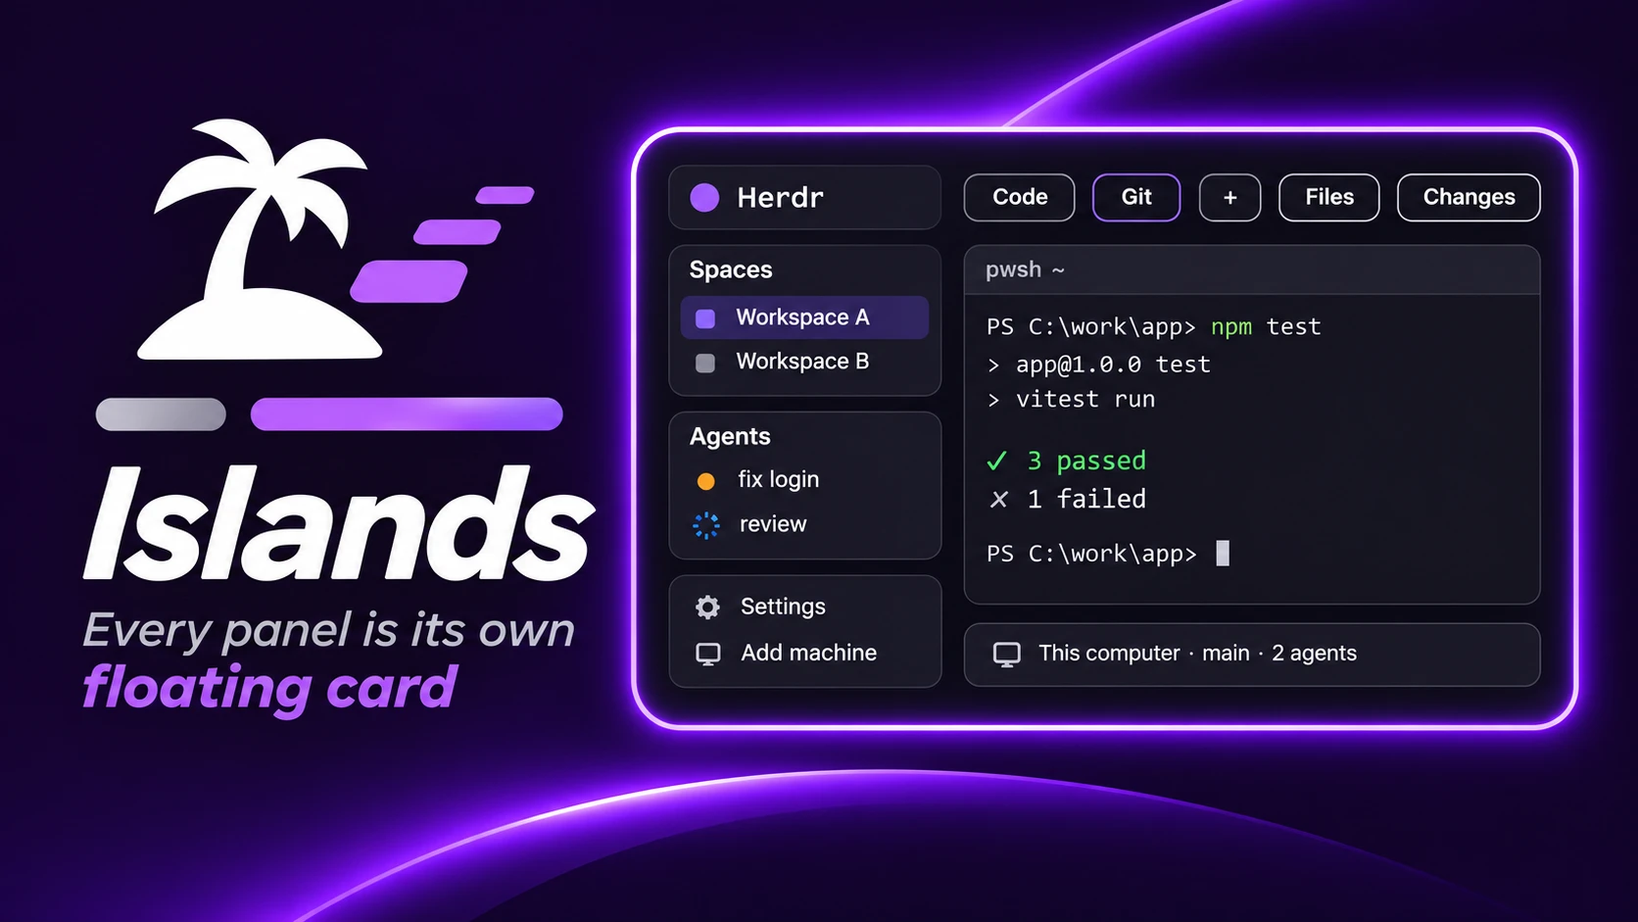
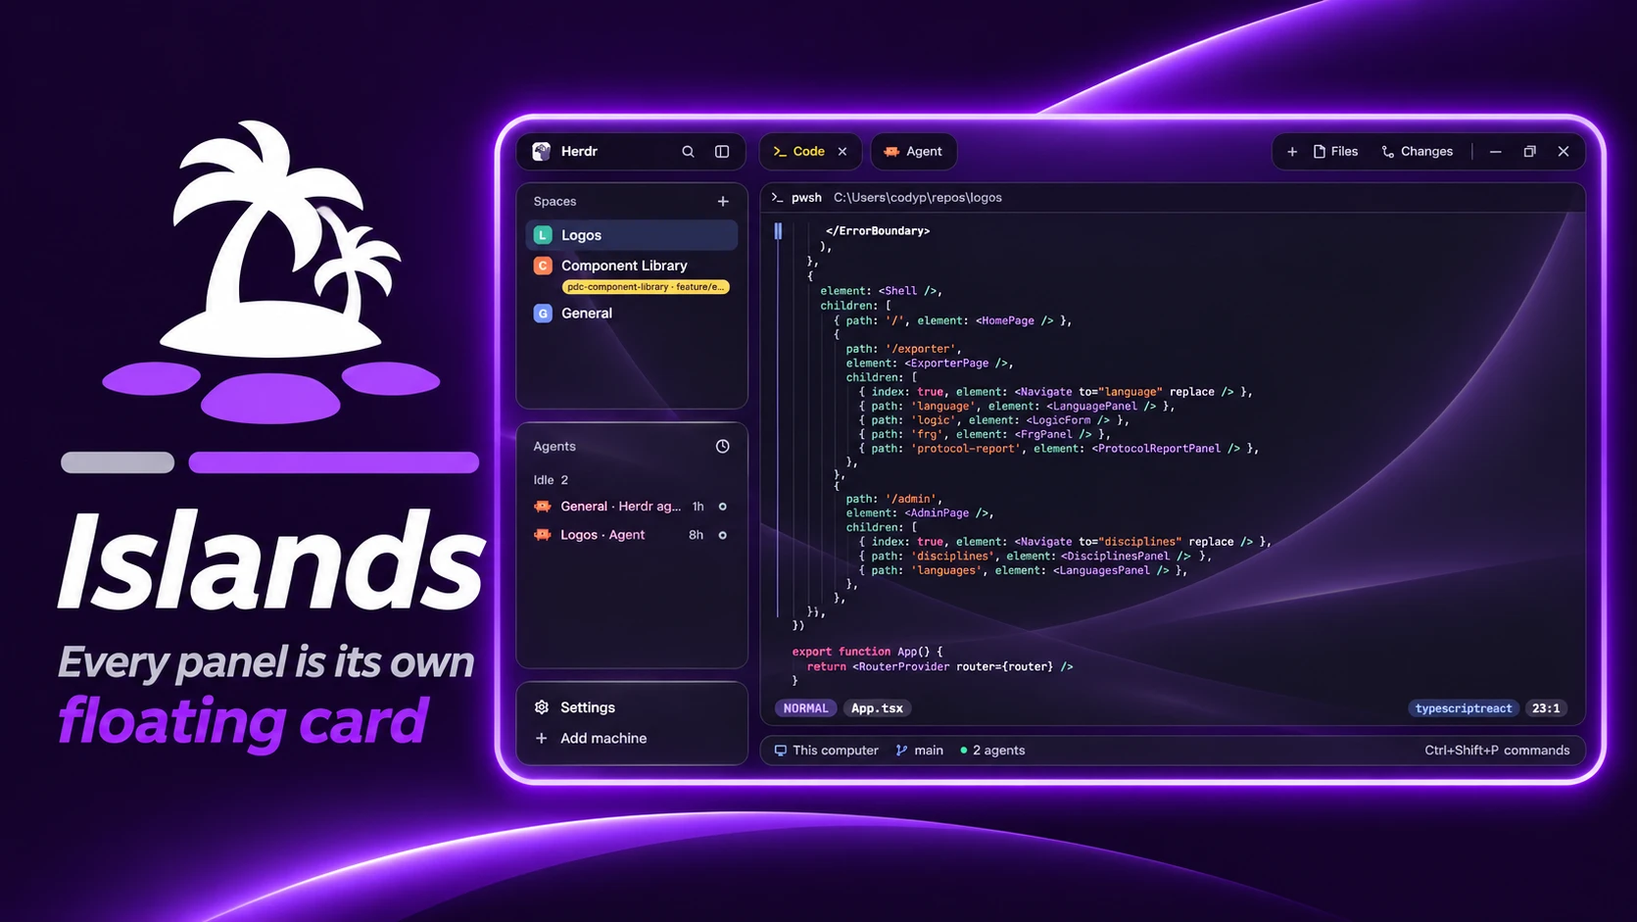
islands: top bar card, opacity settings, branch pill, new preview
- Put the new-tab, Files, Changes and window buttons in one card, and make
  the tabs and that card 38px tall, flush with the main panel's edges.
- Keep the full sidebar down to 100px wide, cutting long text with an
  ellipsis, and center the rail's contents at any width.
- Show a space's branch as a small yellow pill under its name, and color
  the active tab's text the same yellow.
- Add mods/islands-workspace-chrome/settings.json: opacity for the cards,
  main_opacity for the main panel.
- Replace the preview with the new thumbnail.

diff --git a/islands/mods/islands-tabs/main.js b/islands/mods/islands-tabs/main.js
@@ -2,6 +2,13 @@ import { View, div, svg, image } from "gpui-kit";
 import { h_flex } from "gpui-base";
 import { spaces, panes, run, openOverlay, theme, window, shared, layout, settings } from "herdr";
 
+// The islands' fill at the opacity in islands-workspace-chrome/settings.json (1 when unset).
+const islandFill = (c) => {
+  const o = shared("islands.opacity");
+  if (typeof o !== "number" || o >= 1 || !/^#[0-9a-f]{6}$/i.test(c)) return c;
+  return c + Math.round(Math.max(0, o) * 255).toString(16).padStart(2, "0");
+};
+
 function find(node, id) {
   if (node?.id === id) return node;
   for (const child of node?.children ?? []) {
@@ -57,8 +64,8 @@ export default class Tabs extends View {
     const item = (c, i) => {
       const program = panes().find(p => p.tab === c.id && p.program?.agent)?.program ?? panes().find(p => p.tab === c.id)?.program;
       const name = /^tb\d+$/.test(c.name) ? program?.name ?? "Terminal" : c.name;
-      return h_flex().id(`tab-${c.id}`).h(29).px(10).gap(7).rounded(7).items_center().flex_none().text_size(12.8)
-        .border(1).border_color(c.active ? t.accent : t.border).bg(t.surface).text_color(c.active ? t.accent : t.muted) // every tab is a pill, the active one outlined in the accent (settings.json colors.accent overrides it)
+      return h_flex().id(`tab-${c.id}`).h_full().px(14).gap(7).rounded(14).items_center().flex_none().text_size(12) // as tall and round as the Herdr card
+        .border(1).border_color(t.border).bg(islandFill(t.surface)).text_color(c.active ? t.ansi3 : t.muted) // every tab is a pill, the active one in the theme's yellow (ansi3), like the branch pill
         .hover(s => s.bg(t.hover))
         .on_mouse_down("left", (e, cx) => { cx.stop_propagation(); this.pressed = i; if (e.click_count === 2) run("tab.rename", { id: c.id }); })
         .on_mouse_up("left", () => {
@@ -67,7 +74,7 @@ export default class Tabs extends View {
           else run("tab.select", { id: c.id });
         })
         .on_mouse_down("right", (_e, cx) => { cx.stop_propagation(); openOverlay({ mod: "menu", kind: "popup", width: 200, props: { tab: "tab", target: { id: c.id, space: space.id } } }); })
-        .when(Boolean(program?.icon), el => el.child(program.tint ? svg(program.icon).size(14).text_color(c.active ? t.accent : t.muted) : image(program.icon).size(14)))
+        .when(Boolean(program?.icon), el => el.child(program.tint ? svg(program.icon).size(14).text_color(c.active ? t.ansi3 : t.muted) : image(program.icon).size(14)))
         .child(div().max_w(170).truncate().child(c.zoomed ? `${name} Z` : name))
         .when(c.status === "working", el => el.child(svg("mods/workspace-chrome/spinner.svg").size(12).flex_none().text_color(t.working).spin(900)))
         .when(c.status === "blocked" || c.status === "done", el => el.child(div().size(6).rounded(3).bg(t[c.status])))
@@ -77,29 +84,32 @@ export default class Tabs extends View {
     // Old saved rails and a dragged-narrow sidebar can be smaller than the window buttons.
     const lightsPadding = w?.platform === "macos" && w.titlebar === "none" && !w.fullscreen && root?.traffic_lights
       ? Math.max(10, (root.traffic_lights[0] + 64) / settings().zoom - (sidebar?.hidden ? 0 : sidebar?.size?.px ?? 0))
-      : 10;
+      : 0; // tabs line up with the main panel's left edge
     const panel = find(root, "panel"), body = find(root, "panel-body");
     const enabled = shared("workspace.panels") ?? ["files", "changes"];
     this.syncPanel(space, panel, body, enabled);
     const panelButton = (id, label, icon) => {
       const on = panel && !panel.hidden && body?.active === id;
       return h_flex().id(`panel-${id}`).h(26).px(8).gap(5).flex_none().items_center().rounded(6)
-        .text_size(12).bg(t.surface).border(1).border_color(on ? t.accent : t.border).text_color(on ? t.accent : t.muted)
+        .text_size(12).border(1).border_color(on ? t.accent : "#00000000").text_color(on ? t.accent : t.muted)
         .hover(s => s.bg(t.hover)).on_mouse_down("left", stop)
         .on_click(() => {
           if (on) run("layout.hide", { id: "panel" });
           else { run("layout.select", { stack: "panel-body", child: id }); run("layout.show", { id: "panel" }); }
         }).child(svg(icon).size(14)).child(label);
     };
-    return h_flex().size_full().min_w(0).px(10).pl(lightsPadding).gap(3).items_center() // no fill: the canvas shows through
+    return h_flex().size_full().min_w(0).pl(lightsPadding).gap(3).items_center() // no fill: the canvas shows through
       .on_mouse_up("left", () => { this.pressed = null; })
       .on_scroll_wheel(e => { if (Math.abs(e.delta.y) >= 1) run(e.delta.y > 0 ? "tab.prev" : "tab.next"); })
       .child(h_flex().id("tab-scroll").flex_1().min_w(0).h_full().items_center().gap(3).overflow_x_scrollbar().children(shown.map(item)))
-      .child(button("tab-new", "+", () => openOverlay({ mod: "new-menu", kind: "popup", width: 250, height: 512 }), true))
-      .when(enabled.includes("files"), el => el.child(panelButton("files", "Files", "mods/files/file.svg")))
-      .when(enabled.includes("changes"), el => el.child(panelButton("changes", "Changes", "mods/changes/changes.svg")))
-      .when(w?.buttons, el => el.child(button("minimize", w.platform === "windows" ? svg("mods/islands-tabs/win-min.svg").size(16) : "−", () => run("window.minimize")))
-        .child(button("maximize", w.platform === "windows" ? svg(`mods/islands-tabs/${w.maximized ? "win-restore" : "win-max"}.svg`).size(16) : "□", () => run("window.maximize")))
-        .child(button("close-window", w.platform === "windows" ? svg("mods/islands-tabs/win-close.svg").size(16) : svg("mods/pane/close.svg").size(13), () => run("window.close"))));
+      // The buttons on the right share one card, like the sidebar's, flush with the main panel's right edge.
+      .child(h_flex().id("tab-actions").flex_none().h_full().px(10).gap(2).items_center().rounded(14).bg(islandFill(t.chrome)).border(1).border_color(t.border)
+        .child(button("tab-new", "+", () => openOverlay({ mod: "new-menu", kind: "popup", width: 250, height: 512 })))
+        .when(enabled.includes("files"), el => el.child(panelButton("files", "Files", "mods/files/file.svg")))
+        .when(enabled.includes("changes"), el => el.child(panelButton("changes", "Changes", "mods/changes/changes.svg")))
+        .when(w?.buttons, el => el.child(div().w(1).h(16).mx(3).flex_none().bg(t.border))
+          .child(button("minimize", w.platform === "windows" ? svg("mods/islands-tabs/win-min.svg").size(16) : "−", () => run("window.minimize")))
+          .child(button("maximize", w.platform === "windows" ? svg(`mods/islands-tabs/${w.maximized ? "win-restore" : "win-max"}.svg`).size(16) : "□", () => run("window.maximize")))
+          .child(button("close-window", w.platform === "windows" ? svg("mods/islands-tabs/win-close.svg").size(16) : svg("mods/pane/close.svg").size(13), () => run("window.close")))));
   }
 }

diff --git a/islands/mods/islands-spaces/main.js b/islands/mods/islands-spaces/main.js
@@ -7,6 +7,13 @@ import { View, div, svg } from "gpui-kit";
 import { v_flex, h_flex } from "gpui-base";
 import { spaces, machines, panes, run, openOverlay, exec, hc, theme, shared, setShared, watchFolder, window, layout, home } from "herdr";
 
+// The islands' fill at the opacity in islands-workspace-chrome/settings.json (1 when unset).
+const islandFill = (c) => {
+  const o = shared("islands.opacity");
+  if (typeof o !== "number" || o >= 1 || !/^#[0-9a-f]{6}$/i.test(c)) return c;
+  return c + Math.round(Math.max(0, o) * 255).toString(16).padStart(2, "0");
+};
+
 // A new space starts in home, not the focused space's folder, so it shares no
 // repo, name or processes with it. Another machine's space starts in that machine's home.
 /** @param {string | null | undefined} m */
@@ -23,7 +30,7 @@ function find(node, id) {
 }
 
 // The sidebar's rail goes by its width, not a flag: dragging its edge narrows it too.
-const narrow = () => (find(layout(), "sidebar")?.size?.px ?? Infinity) < 160;
+const narrow = () => (find(layout(), "sidebar")?.size?.px ?? Infinity) < 100;
 
 // Where a space is now: its first terminal's live folder, else where it was made.
 // `ps`: panes(), read once by the caller (each read copies every pane).
@@ -351,26 +358,24 @@ export default class Spaces extends View {
     });
   }
 
-  // Only what's unusual, after the name: "herdr \u00b7 spike \u21912 \u21931". The repo or
-  // branch goes when the name already says it (a worktree is named after its branch),
-  // and master/main go: nearly every space is on one.
+  // Only what's unusual, under the name: a small "herdr \u00b7 spike" pill, then "\u21912 \u21931".
+  // The repo or branch goes when the name already says it (a worktree is named after
+  // its branch), and master/main go: nearly every space is on one. Null: nothing to show.
   gitTail(g, tree, name, t) {
     const raw = g.branch ?? "detached";
     const same = (a) => a.toLowerCase() === name.toLowerCase();
     const branch = same(raw) || raw === "master" || raw === "main" ? "" : raw;
     const repo = tree || same(g.name) ? "" : g.name;
     const where = [repo, branch].filter(Boolean).join(" \u00b7 ");
-    return h_flex()
-      .flex_1()
-      .min_w(0)
-      .gap(5)
-      .justify_end()
-      .items_center()
-      .text_size(11.5)
-      .text_color(t.dim)
+    if (!where && !(g.ahead > 0) && !(g.behind > 0)) return null;
+    // One pill holds the branch and the counts, all in the same dark text.
+    return h_flex().self_start().max_w_full().min_w(0).h(14).px(5).gap(4).items_center().rounded_full()
+      .text_size(9)
+      // Filled with the theme's yellow (ansi3), dark text so it reads on it.
+      .bg(t.ansi3).text_color(t.background)
       .when(Boolean(where), (el) => el.child(div().min_w(0).truncate().child(where)))
-      .when(g.ahead > 0, (el) => el.child(div().flex_none().text_color(t.ansi2).child(`\u2191${g.ahead}`)))
-      .when(g.behind > 0, (el) => el.child(div().flex_none().text_color(t.ansi1).child(`\u2193${g.behind}`)));
+      .when(g.ahead > 0, (el) => el.child(div().flex_none().child(`\u2191${g.ahead}`)))
+      .when(g.behind > 0, (el) => el.child(div().flex_none().child(`\u2193${g.behind}`)));
   }
 
   row({ w, i, g, tree }, t) {
@@ -379,11 +384,12 @@ export default class Spaces extends View {
     const colors = shared("space.colors") ?? {};
     const color = colors[w.id] ?? "ansi6";
     const fill = color.startsWith("#") ? color : (MARK[color] ?? t[color]);
+    const tail = g ? this.gitTail(g, tree, w.name, t) : null;
     return v_flex()
       .relative()
       .id(`space-${w.id}`)
       .px(8)
-      .h(rowHeight({ tree }))
+      .h(tail ? 44 : rowHeight({ tree })) // taller only when the pill goes under the name
       .flex_none()
       .justify_center()
       .rounded(8)
@@ -419,15 +425,16 @@ export default class Spaces extends View {
         cx.notify();
       })
       .on_mouse_down("right", () => this.menu(w))
+      // The name sits level with the letter; the pill goes under the name, lined up with it.
       .child(
         h_flex()
           .gap(9)
           .items_center()
           .when(Boolean(tree), el => el.pl(22).child(svg("mods/workspace-chrome/branch.svg").size(13).text_color(t.dim)))
           .when(!tree, el => el.child(h_flex().size(18).flex_none().rounded(5).bg(fill).items_center().justify_center().text_size(10.5).font_bold().text_color("#ffffff").child([...w.name][0]?.toUpperCase() ?? "?")))
-          .child(div().flex_shrink(0).max_w(150).truncate().text_color(t.foreground).child(w.name))
-          .child(g ? this.gitTail(g, tree, w.name, t) : div().flex_1()),
-      );
+          .child(div().flex_1().min_w(0).truncate().text_color(t.foreground).child(w.name)),
+      )
+      .when(Boolean(tail), el => el.child(h_flex().min_w(0).mt(3).pl(tree ? 44 : 27).child(tail)));
   }
 
   // The rail: the space's letter tile, like the wide list.
@@ -465,7 +472,7 @@ export default class Spaces extends View {
       changed = true;
     }
     if (changed) setShared("space.colors", kept);
-    return v_flex().size_full().min_h(0).rounded(13).overflow_hidden().bg(t.chrome).text_size(13) // rounded so the card corners stay clean
+    return v_flex().size_full().min_h(0).rounded(13).overflow_hidden().bg(islandFill(t.chrome)).text_size(13) // rounded so the card corners stay clean
       .when(collapsed, el => el.pt(10))
       .child(h_flex().h(31).when(collapsed, el => el.justify_center()).when(!collapsed, el => el.pl(16).pr(10).justify_between()).items_center().text_size(11.5).text_color(t.dim)
         .when(!collapsed, el => el.child("Spaces"))

diff --git a/islands/mods/islands-workspace-chrome/main.js b/islands/mods/islands-workspace-chrome/main.js
@@ -1,6 +1,27 @@
 import { View, div, image, svg } from "gpui-kit";
 import { h_flex, v_flex } from "gpui-base";
-import { theme, run, props, window, shared, setShared, updates, layout } from "herdr";
+import { theme, run, props, window, shared, setShared, updates, layout, appHome, readTextFile, watchFolder } from "herdr";
+
+// A #rrggbb color at an opacity (0..1), as #rrggbbaa. Other colors stay as they are.
+const fade = (c, o) => typeof o !== "number" || o >= 1 || !/^#[0-9a-f]{6}$/i.test(c)
+  ? c : c + Math.round(Math.max(0, o) * 255).toString(16).padStart(2, "0");
+// The islands' fill at "opacity" in this mod's settings.json (1 when unset).
+const islandFill = (c) => fade(c, shared("islands.opacity"));
+
+// The main panel's fill comes from the layout, not a mod, so "main_opacity" rewrites
+// the main pane's background there: the theme's background, faded. At 1 it goes back
+// to the plain theme color. Only writes when the value differs.
+function applyMainOpacity() {
+  const root = layout();
+  const pane = find(root, "main")?.content?.pane;
+  if (!pane) return;
+  const o = shared("islands.mainOpacity");
+  const want = typeof o === "number" && o < 1 ? fade(theme().background, o) : "background";
+  if (pane.background === want) return;
+  const next = JSON.parse(JSON.stringify(root));
+  find(next, "main").content.pane.background = want;
+  run("layout.set", { layout: next });
+}
 
 function find(node, id) {
   if (node?.id === id) return node;
@@ -12,7 +33,7 @@ function find(node, id) {
 }
 
 // The sidebar's rail goes by its width, not a flag: dragging its edge narrows it too.
-const narrow = () => (find(layout(), "sidebar")?.size?.px ?? Infinity) < 160;
+const narrow = () => (find(layout(), "sidebar")?.size?.px ?? Infinity) < 100;
 
 // To the rail (on macOS wide enough for the traffic lights), or back to the width it had.
 function toggleSidebar() {
@@ -24,6 +45,24 @@ function toggleSidebar() {
 }
 
 export default class WorkspaceChrome extends View {
+  // The header copy reads settings.json and shares both opacities with every islands mod,
+  // again whenever the file changes.
+  init(p, cx) {
+    if (p?.footer) return;
+    const dir = `${appHome()}/mods/islands-workspace-chrome`;
+    const clamp = (v) => (typeof v === "number" ? Math.min(1, Math.max(0, v)) : 1);
+    cx.spawn(async () => {
+      for (;;) {
+        let s = {};
+        try { s = JSON.parse((await readTextFile(`${dir}/settings.json`)) ?? "{}"); } catch {}
+        const o = clamp(s.opacity), main = clamp(s.main_opacity);
+        if (shared("islands.opacity") !== o) setShared("islands.opacity", o);
+        if (shared("islands.mainOpacity") !== main) setShared("islands.mainOpacity", main);
+        applyMainOpacity();
+        await watchFolder(dir);
+      }
+    });
+  }
   button(id, label, action) {
     const t = theme();
     return div().id(id).size(26).flex_none().flex().items_center().justify_center().rounded(6).text_color(t.muted).hover(s => s.bg(t.hover).text_color(t.foreground))
@@ -36,15 +75,15 @@ export default class WorkspaceChrome extends View {
       const row = (id, icon, label, dim, action) => h_flex().id(id).h(28).px(collapsed ? 6 : 8).gap(9).items_center().rounded(8).when(collapsed, el => el.justify_center())
         .text_color(dim ? t.dim : t.muted).hover(s => s.bg(t.hover).text_color(t.foreground)).cursor_pointer()
         .on_click(action).child(svg(`mods/islands-workspace-chrome/${icon}.svg`).size(14))
-        .when(!collapsed, el => el.child(label));
-      return v_flex().size_full().rounded(13).overflow_hidden().bg(t.chrome).px(collapsed ? 5 : 8).py(8).text_size(13) // its own card, no divider
+        .when(!collapsed, el => el.child(div().min_w(0).truncate().child(label)));
+      return v_flex().size_full().rounded(13).overflow_hidden().bg(islandFill(t.chrome)).px(collapsed ? 5 : 8).py(8).text_size(13) // its own card, no divider
         .child(row("settings", "settings", "Settings", false, () => run("app.settings"))
           .when(Boolean(updates().app.ready), el => el.child(div().size(6).rounded_full().bg(t.accent))))
         .child(row("machine", "plus", "Add machine", true, () => run("mod.open", { name: "machine-add" })));
     }
-    return h_flex().size_full().rounded(13).overflow_hidden().bg(t.chrome).pl(collapsed ? 6 : 14).pr(10).gap(4).items_center().text_size(13.5)
+    return h_flex().size_full().rounded(13).overflow_hidden().bg(islandFill(t.chrome)).when(collapsed, el => el.justify_center()).when(!collapsed, el => el.pl(14).pr(10)).gap(4).items_center().text_size(13.5)
       .when(window()?.platform === "macos" && !window()?.fullscreen && !collapsed, el => el.pl(76))
-      .when(!collapsed, el => el.child(h_flex().flex_1().gap(8).items_center().child(image("frame/welcome/herdr.png").size(20).rounded(5)).child(div().font_semibold().text_color(t.foreground).child("Herdr"))))
+      .when(!collapsed, el => el.child(h_flex().flex_1().min_w(0).gap(8).items_center().child(image("frame/welcome/herdr.png").size(20).flex_none().rounded(5)).child(div().min_w(0).truncate().font_semibold().text_color(t.foreground).child("Herdr"))))
       .when(!collapsed, el => el.child(this.button("search", svg("mods/islands-workspace-chrome/search.svg").size(15), () => run("mod.open", { name: "picker" }))))
       // On the macOS rail the traffic lights fill the row; the agents list's » unfolds it.
       .when(!(collapsed && window()?.platform === "macos"), el => el.child(this.button("sidebar-toggle", svg("mods/islands-workspace-chrome/sidebar.svg").size(15), toggleSidebar)));

diff --git a/islands/mods/islands-agents/main.js b/islands/mods/islands-agents/main.js
@@ -5,6 +5,13 @@ import { View, div, image, svg } from "gpui-kit";
 import { v_flex, h_flex } from "gpui-base";
 import { agents, terminals, panes, focused, spaces, run, theme, shared, setShared, setAgentOrder, openOverlay, closeOverlay, props, window, layout } from "herdr";
 
+// The islands' fill at the opacity in islands-workspace-chrome/settings.json (1 when unset).
+const islandFill = (c) => {
+  const o = shared("islands.opacity");
+  if (typeof o !== "number" || o >= 1 || !/^#[0-9a-f]{6}$/i.test(c)) return c;
+  return c + Math.round(Math.max(0, o) * 255).toString(16).padStart(2, "0");
+};
+
 function find(node, id) {
   if (node?.id === id) return node;
   for (const child of node?.children ?? []) {
@@ -15,7 +22,7 @@ function find(node, id) {
 }
 
 // The sidebar's rail goes by its width, not a flag: dragging its edge narrows it too.
-const narrow = () => (find(layout(), "sidebar")?.size?.px ?? Infinity) < 160;
+const narrow = () => (find(layout(), "sidebar")?.size?.px ?? Infinity) < 100;
 
 // To the rail (on macOS wide enough for the traffic lights), or back to the width it had.
 function toggleSidebar() {
@@ -299,7 +306,7 @@ export default class Agents extends View {
         return h_flex()
           .id(`ag-${a.address}`)
           .h(26)
-          .mx(5) // inset and rounded so the hover fill stays inside the card
+          .w(34) // fixed width, centered by the list, so a wider rail doesn't stretch it
           .px(4)
           .rounded(6)
           .flex_none()
@@ -397,7 +404,7 @@ export default class Agents extends View {
           open ? this.folded.add(g.id) : this.folded.delete(g.id);
           cx.notify();
         })
-        .child(div().truncate().text_color(t[g.status] ?? t.dim).child(g.label))
+        .child(div().min_w(0).truncate().text_color(t[g.status] ?? t.dim).child(g.label))
         .when(byPriority || !open, (el) => el.child(div().text_color(t.dim).child(String(g.members.length))))
         .child(div().flex_1())
         .when(!open, (el) => el
@@ -413,7 +420,7 @@ export default class Agents extends View {
       .min_h(0)
       .rounded(13) // its own card now, so no top divider
       .overflow_hidden()
-      .bg(t.chrome)
+      .bg(islandFill(t.chrome))
       .text_size(13)
       .when(collapsed, (el) => el.pt(10))
       .when(!collapsed, (el) =>
@@ -442,7 +449,7 @@ export default class Agents extends View {
       .when(list.length === 0 && !collapsed, (el) =>
         el.child(div().px(12).text_size(12).text_color(t.dim).child("No agent status yet. Agents show up here when they report their status. Older versions and agents inside tmux may not.")),
       )
-      .child(v_flex().id("ag-list").flex_1().min_h(0).px(collapsed ? 0 : 8).overflow_y_scrollbar().mode("always").children(rows))
+      .child(v_flex().id("ag-list").flex_1().min_h(0).px(collapsed ? 0 : 8).when(collapsed, (el) => el.items_center()).overflow_y_scrollbar().mode("always").children(rows))
       .when(collapsed, (el) =>
         el.child(
           h_flex()

diff --git a/islands/mods/islands-workspace-status/main.js b/islands/mods/islands-workspace-status/main.js
@@ -1,6 +1,13 @@
 import { View, div, svg } from "gpui-kit";
 import { h_flex } from "gpui-base";
-import { spaces, agents, theme, run, window, keys } from "herdr";
+import { spaces, agents, theme, run, window, keys, shared } from "herdr";
+
+// The islands' fill at the opacity in islands-workspace-chrome/settings.json (1 when unset).
+const islandFill = (c) => {
+  const o = shared("islands.opacity");
+  if (typeof o !== "number" || o >= 1 || !/^#[0-9a-f]{6}$/i.test(c)) return c;
+  return c + Math.round(Math.max(0, o) * 255).toString(16).padStart(2, "0");
+};
 
 export default class WorkspaceStatus extends View {
   // The palette key as actually bound, not a hardcoded one; without a
@@ -20,7 +27,7 @@ export default class WorkspaceStatus extends View {
     const list = agents();
     const needs = list.filter(a => a.status === "blocked").length;
     const label = (icon, text, color) => h_flex().gap(6).items_center().child(svg(`mods/workspace-chrome/${icon}.svg`).size(13).text_color(color)).child(text); // colored icon, muted text
-    return h_flex().size_full().px(14).gap(16).items_center().rounded(13).overflow_hidden().bg(t.chrome).text_size(11.8).text_color(t.muted) // its own card, no divider
+    return h_flex().size_full().px(14).gap(16).items_center().rounded(13).overflow_hidden().bg(islandFill(t.chrome)).text_size(11.8).text_color(t.muted) // its own card, no divider
       .child(label(space?.machine ? "server" : "monitor", space?.machine ?? "This computer", t.working))
       .when(Boolean(space?.branch), el => el.child(label("branch", space.branch, t.accent)))
       .child(h_flex().gap(6).items_center().child(div().size(6).rounded(3).bg(needs > 0 ? t.blocked : list.length > 0 ? t.done : t.dim)).child(`${list.length} agents`)

diff --git a/islands/mods/islands-pane/main.js b/islands/mods/islands-pane/main.js
@@ -6,7 +6,14 @@
 
 import { View, div, svg, image } from "gpui-kit";
 import { h_flex } from "gpui-base";
-import { panes, props, run, theme, home } from "herdr";
+import { panes, props, run, theme, home, shared } from "herdr";
+
+// The header at "main_opacity" in islands-workspace-chrome/settings.json (1 when unset), like the pane under it.
+const mainFill = (c) => {
+  const o = shared("islands.mainOpacity");
+  if (typeof o !== "number" || o >= 1 || !/^#[0-9a-f]{6}$/i.test(c)) return c;
+  return c + Math.round(Math.max(0, o) * 255).toString(16).padStart(2, "0");
+};
 
 function icon(p, size, color) {
   if (!p?.icon) return null;
@@ -54,7 +61,7 @@ export default class Pane extends View {
       .px(10)
       .gap(8)
       .items_center()
-      .rounded_t(13).bg(t.background) // sits inside a 14px card
+      .rounded_t(13).bg(mainFill(t.background)) // sits inside a 14px card
       .border_b(1)
       .border_color(t.border)
       .text_size(12)
